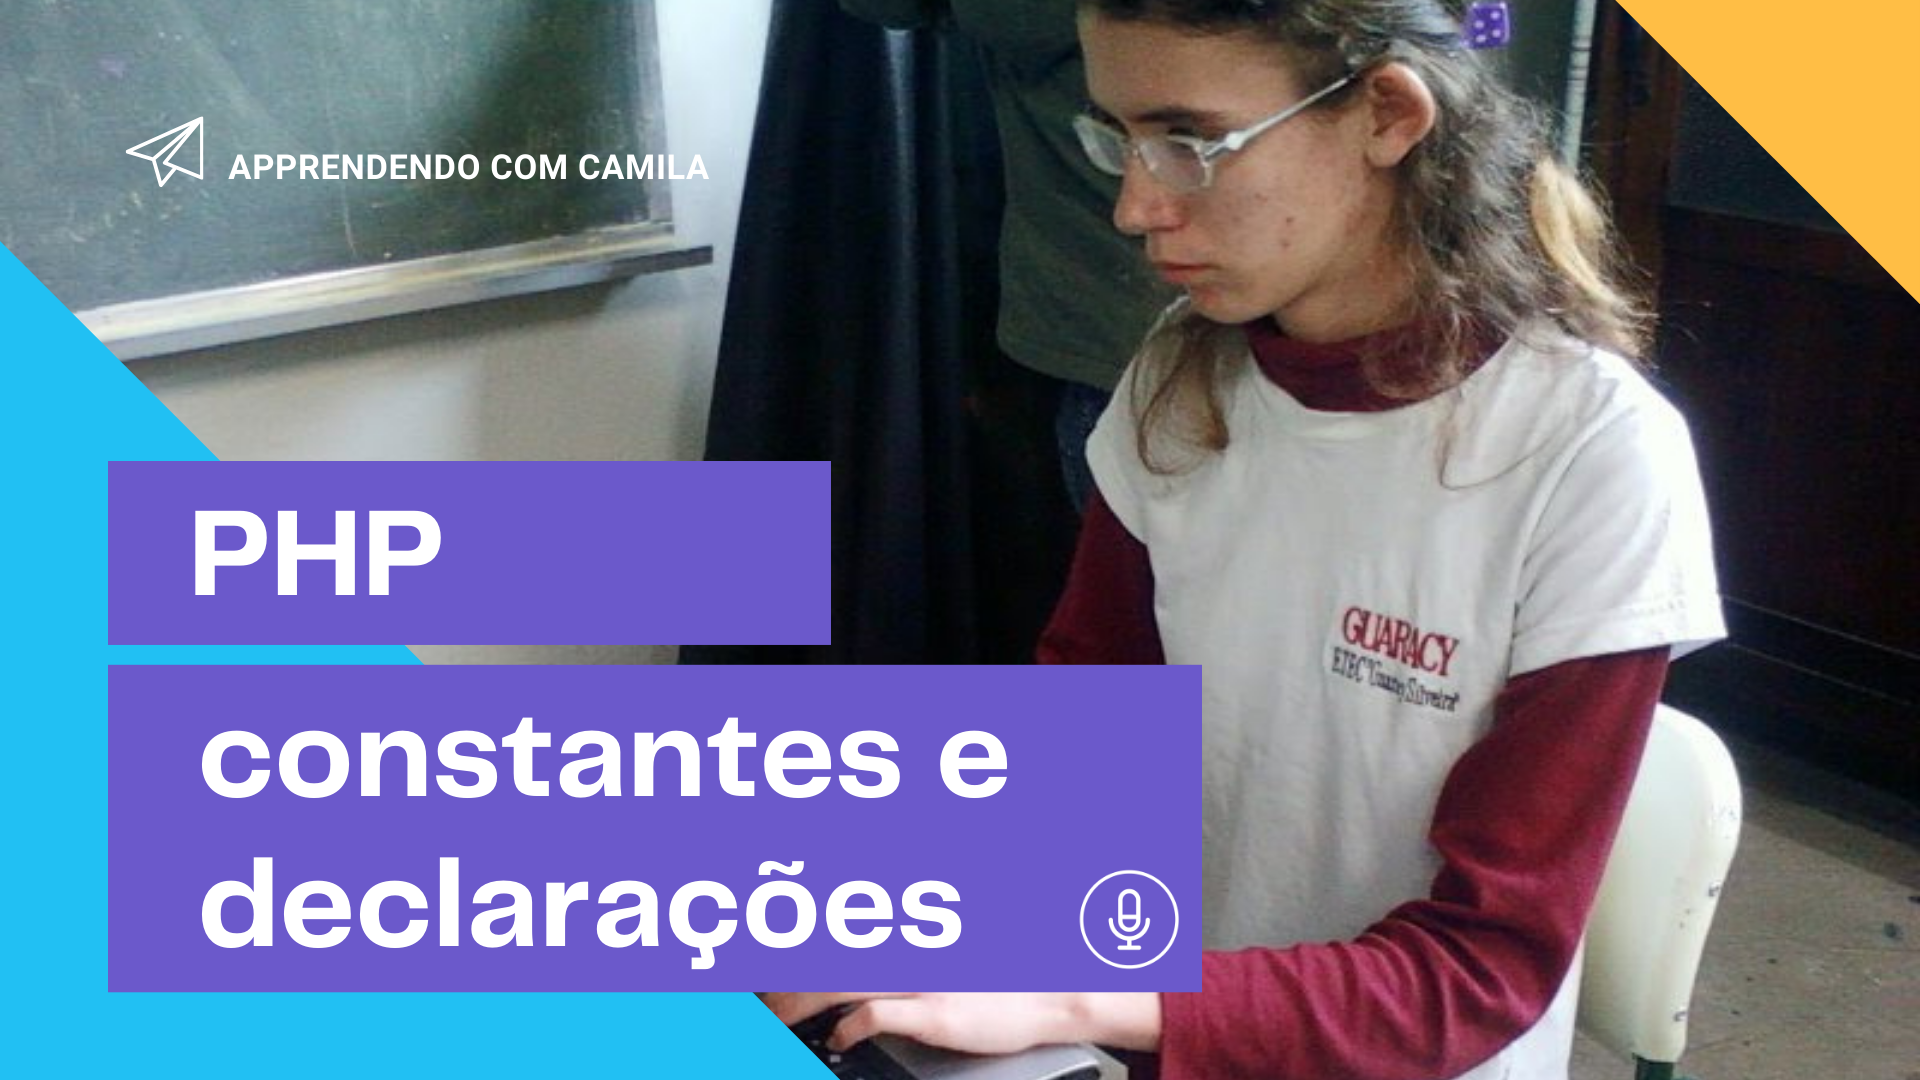
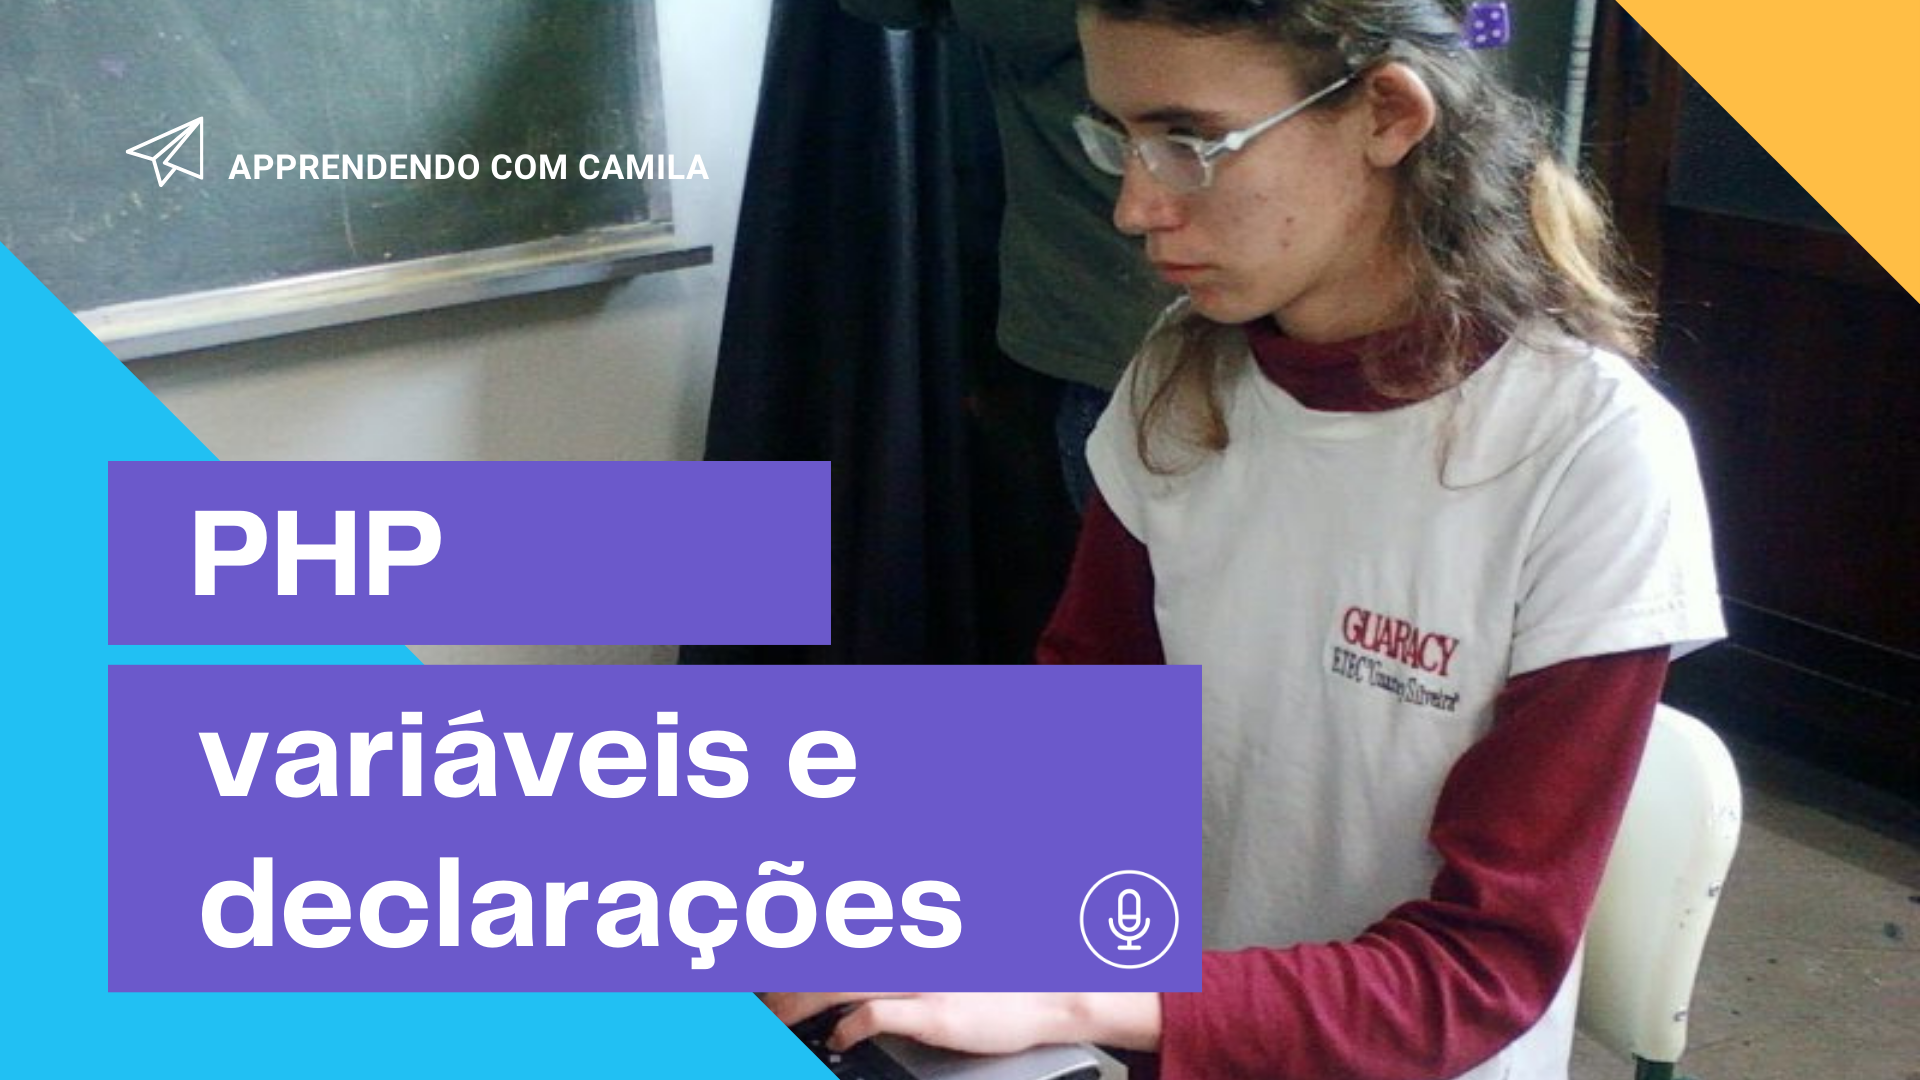
Ajuste de imagem

Changed region(s): [[0.0938, 0.6417, 0.5312, 0.7639]]

diff --git a/public/_posts/2025-06-18-bases-inicio.md b/public/_posts/2025-06-18-bases-inicio.md
@@ -2,7 +2,7 @@
 layout: post
 title:  "Bases das Linguagens: Iniciando em PHP"
 date:   2025-06-18 19:41:01 -3000
-image: https://img.youtube.com/vi/IFyPXYySXXA/0.jpg
+image: https://github.com/2InfoApprendendo/2InfoApprendendo.github.io/blob/site/public/assets/images/posts/bases-1.png?raw=true
 categories: php
 tags: bases, iniciante, historia
 ---

diff --git a/public/_posts/2025-06-18-bases-variaveis.md b/public/_posts/2025-06-18-bases-variaveis.md
@@ -2,7 +2,7 @@
 layout: post
 title:  "O que são as variáveis em PHP?"
 date:   2025-06-18 19:43:01 -3000
-image: https://img.youtube.com/vi/x-yO3dOMqCA/0.jpg
+image: https://github.com/2InfoApprendendo/2InfoApprendendo.github.io/blob/site/public/assets/images/posts/bases-2.png?raw=true
 categories: php
 tags: bases, variaveis, definições
 ---

diff --git a/public/_posts/2025-06-23-bases-constantes.md b/public/_posts/2025-06-23-bases-constantes.md
@@ -2,7 +2,7 @@
 layout: post
 title:  "O que são as constantes em PHP?"
 date:   2025-06-18 19:43:01 -3000
-image: https://img.youtube.com/vi/p8ZjXZ2J11E/0.jpg
+image: https://github.com/2InfoApprendendo/2InfoApprendendo.github.io/blob/site/public/assets/images/posts/bases-3.png?raw=true
 categories: php
 ---
 
